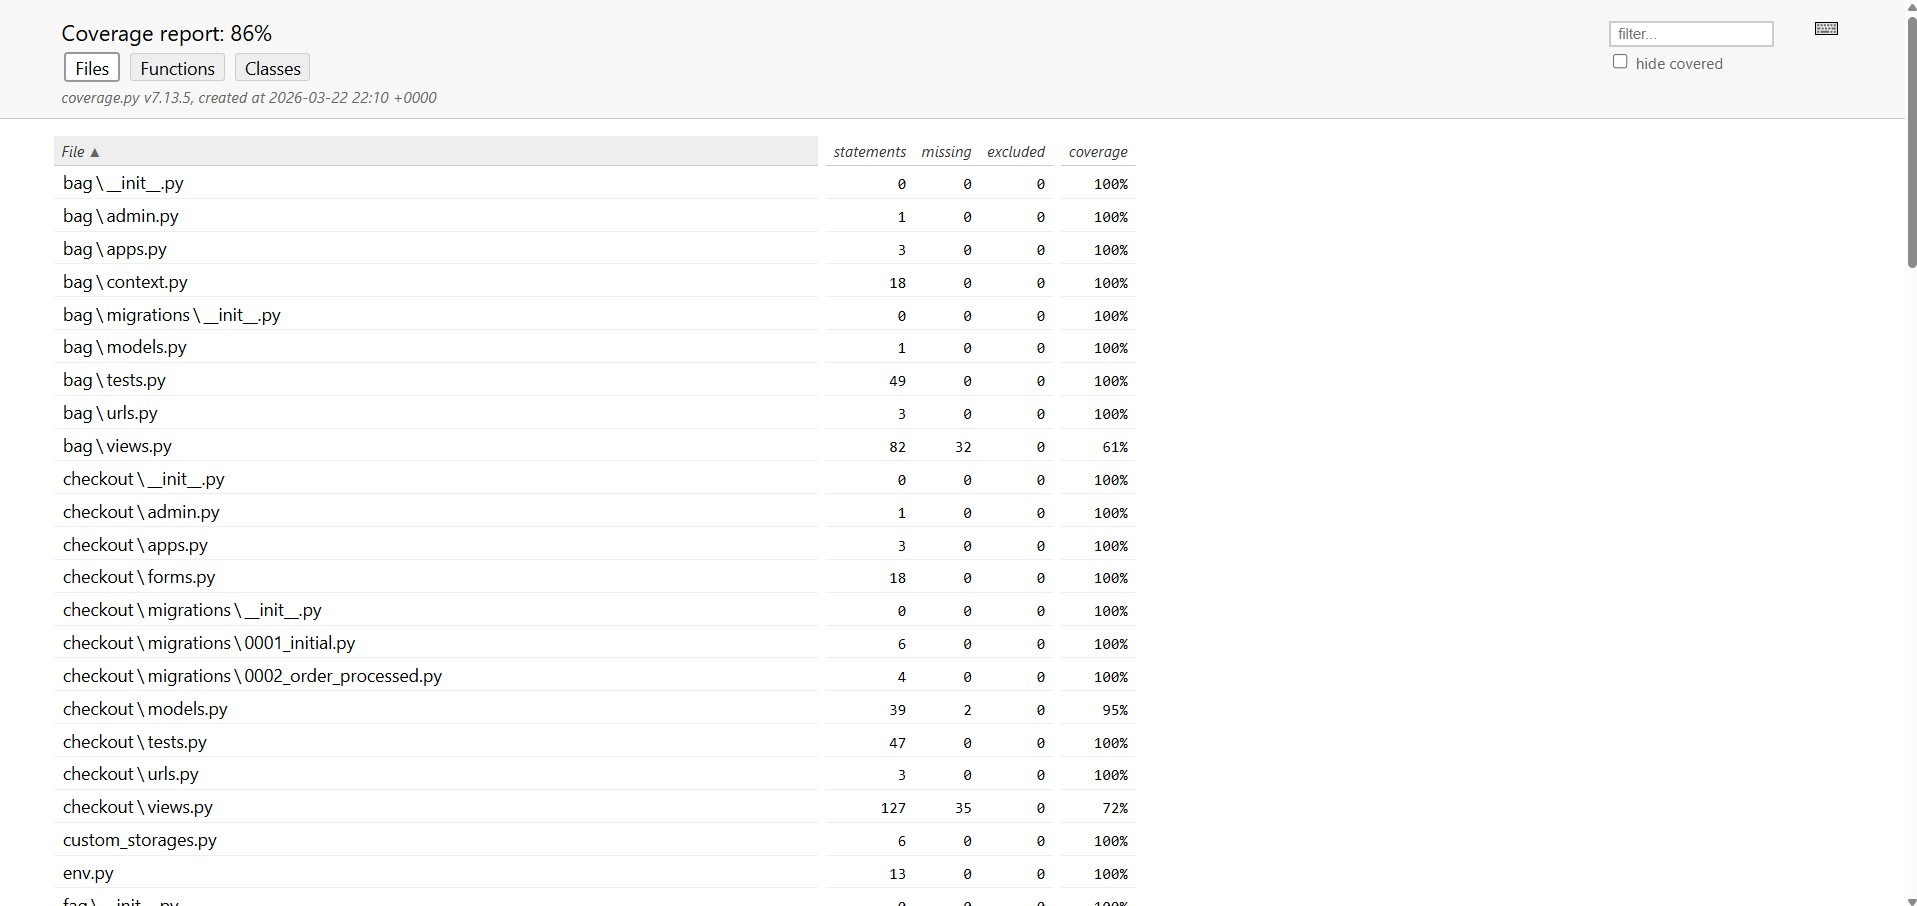
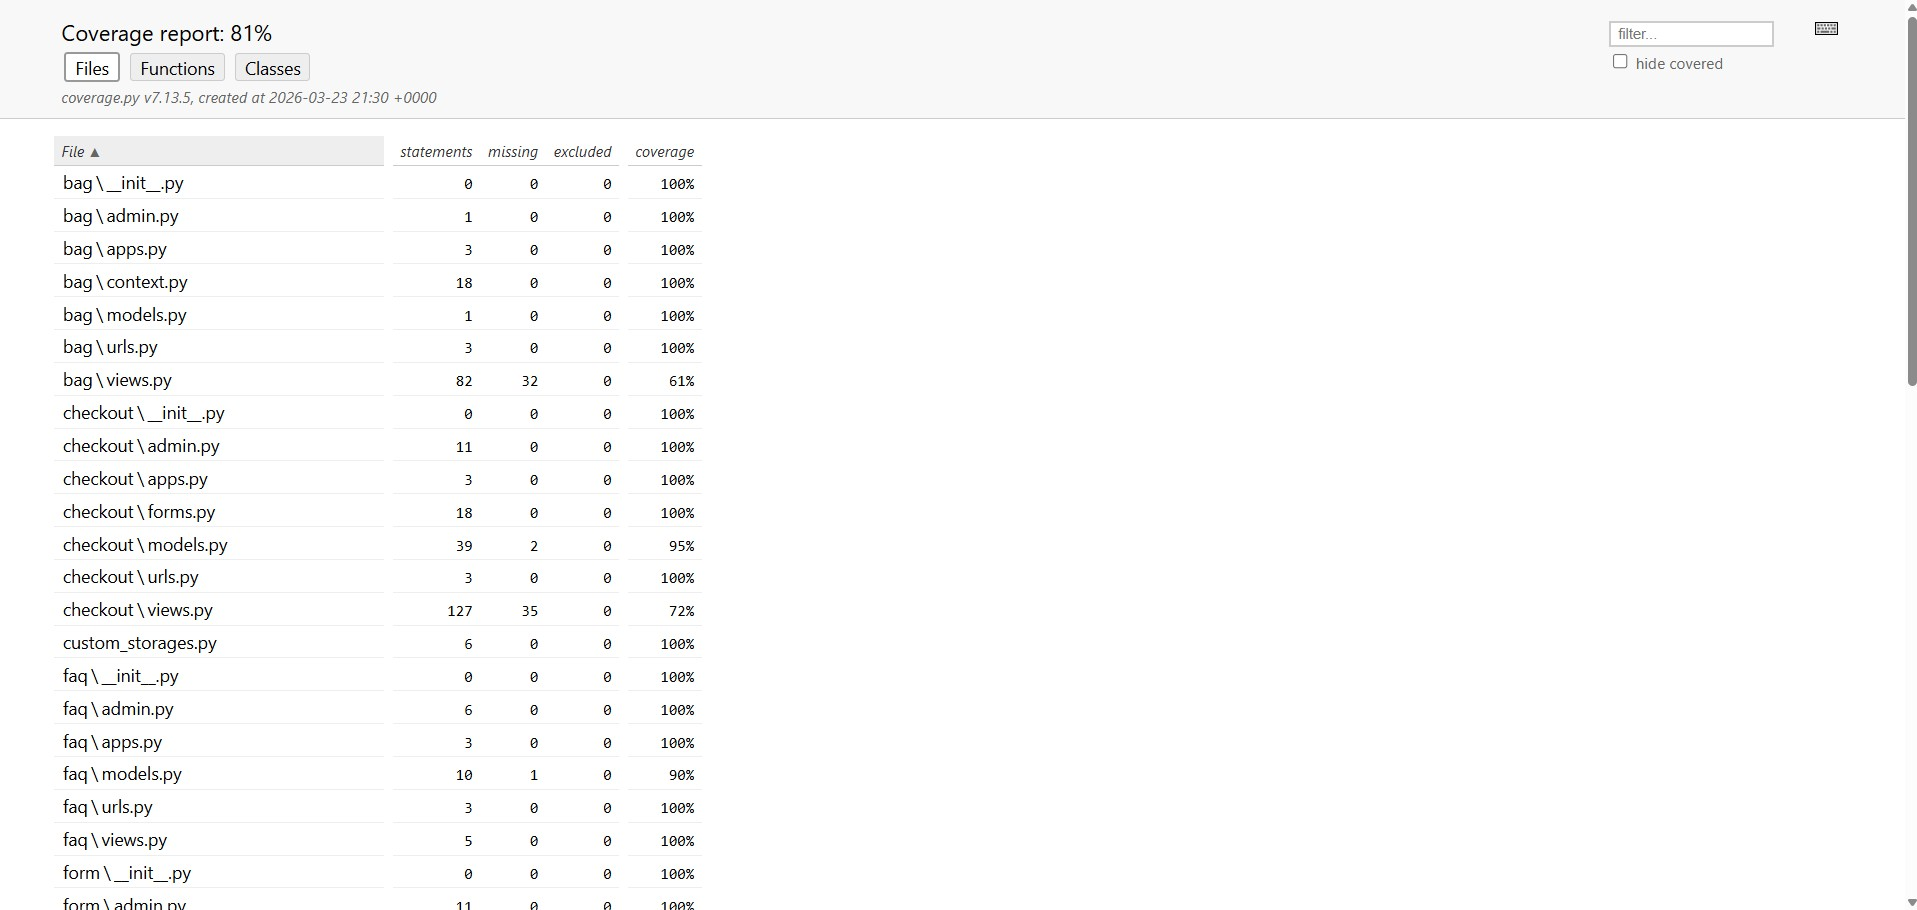
Rerun coverage without env.py included

diff --git a/TESTING.md b/TESTING.md
@@ -311,24 +311,6 @@ While some view logic has slightly lower coverage due to UI-related complexity, 
 
 ## Bugs
 
-### Fixed Bugs
-
-[![GitHub issue custom search](https://img.shields.io/github/issues-search/colmwoods/PCPartsIreland?query=is%3Aissue%20is%3Aclosed%20label%3Abug&label=Fixed%20Bugs&color=green)](https://www.github.com/colmwoods/PCPartsIreland/issues?q=is%3Aissue+is%3Aclosed+label%3Abug)
-
-I've used [GitHub Issues](https://www.github.com/colmwoods/PCPartsIreland/issues) to track and manage bugs and issues during the development stages of my project.
-
-All previously closed/fixed bugs can be tracked [here](https://www.github.com/colmwoods/PCPartsIreland/issues?q=is%3Aissue+is%3Aclosed+label%3Abug).
-
-![screenshot](documentation/bugs/gh-issues-closed.jpg)
-
-### Unfixed Bugs
-
-[![GitHub issue custom search](https://img.shields.io/github/issues-search/colmwoods/PCPartsIreland?query=is%3Aissue%2Bis%3Aopen%2Blabel%3Abug&label=Unfixed%20Bugs&color=red)](https://www.github.com/colmwoods/PCPartsIreland/issues?q=is%3Aissue+is%3Aopen+label%3Abug)
-
-Any remaining open issues can be tracked [here](https://www.github.com/colmwoods/PCPartsIreland/issues?q=is%3Aissue+is%3Aopen+label%3Abug).
-
-![screenshot](documentation/bugs/gh-issues-open.jpg)
-
 ### Known Issues
 
 | Issue | Screenshot |
